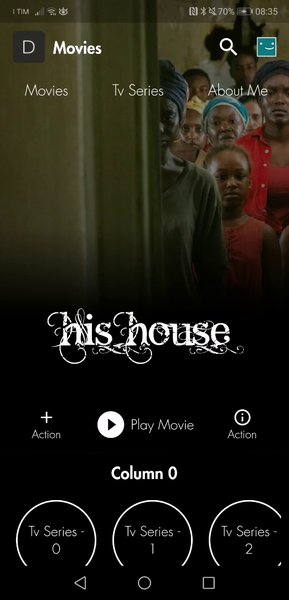
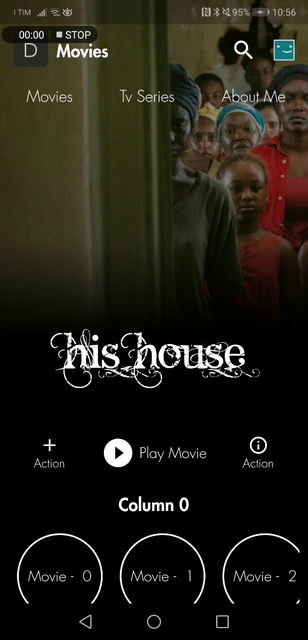
readme file changes

diff --git a/example/lib/widgets/movies.dart b/example/lib/widgets/movies.dart
@@ -225,7 +225,7 @@ class _Movies extends State<Movies> {
                                     children: [
                                       Padding(
                                         child: Text(
-                                          "Tv Series -  $j",
+                                          "Movie -  $j",
                                           textAlign: TextAlign.center,
                                           style: movieStyle(17, bold: false),
                                         ),
